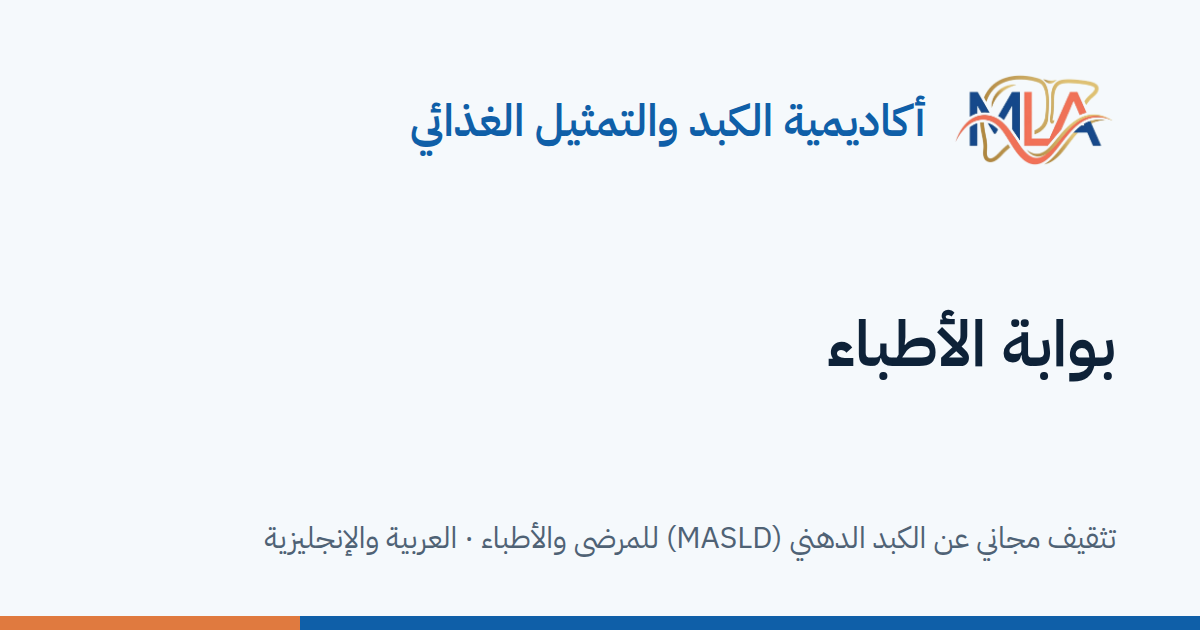
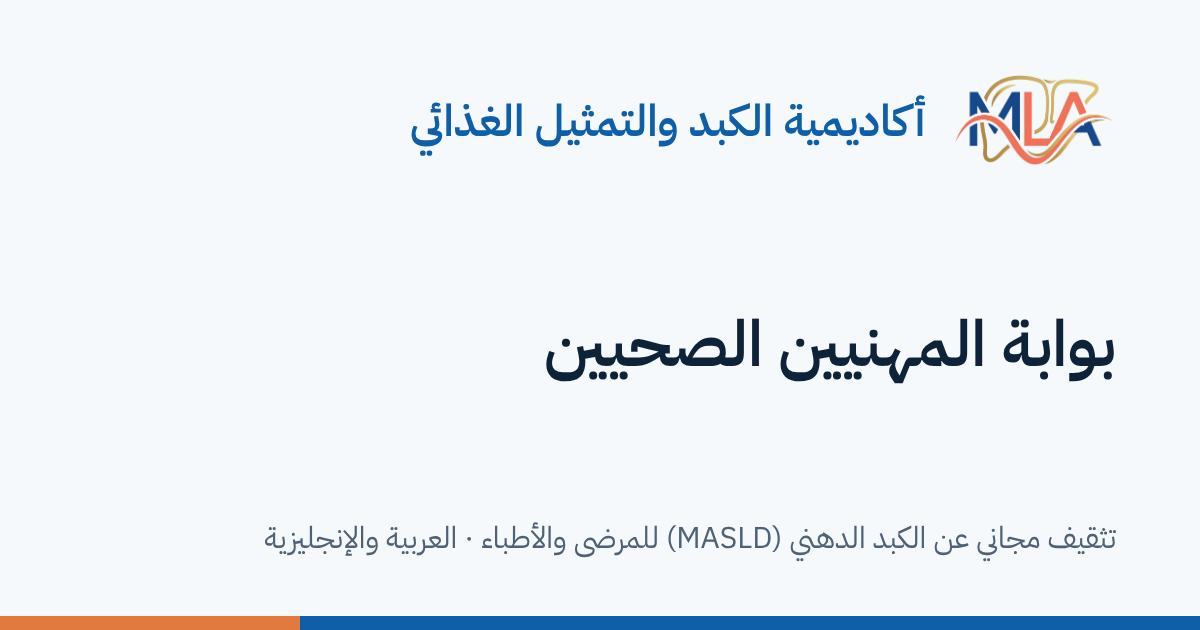
Share images: Professional Portal and reference library titles
- make_share_images.js: new titles; load fonts from a plain file, because site pages
  now carry a CSP that blocked the template's inline styles
- regenerated only the two affected pages' images (English and Arabic)

Claude-Session: https://claude.ai/code/session_01RSZiELUWvC8Yn8XCVCfamJ

diff --git a/scripts/make_share_images.js b/scripts/make_share_images.js
@@ -19,8 +19,8 @@ const PAGES = {
   patients: ['Patient Portal', 'بوابة المرضى'],
   learn: ['Questions and answers about fatty liver', 'أسئلة وأجوبة عن الكبد الدهني'],
   guides: ['Printable guides for patients', 'أدلة للمرضى قابلة للطباعة'],
-  academy: ['Physician Portal', 'بوابة الأطباء'],
-  ref: ['Reference library for doctors', 'المكتبة المرجعية للأطباء'],
+  academy: ['Professional Portal', 'بوابة المهنيين الصحيين'],
+  ref: ['Reference library for healthcare professionals', 'المكتبة المرجعية للعاملين في الصحة'],
   guidance: ['MASLD guidance for clinicians', 'إرشادات MASLD للأطباء'],
   calculators: ['MASLD calculators for clinicians', 'حاسبات MASLD للأطباء'],
   lectures: ['Lectures', 'المحاضرات'],
@@ -56,7 +56,9 @@ p{font-size:30px;color:#4F6275;line-height:1.4}
 (async () => {
   const b = await chromium.launch(process.env.CHROME ? { executablePath: process.env.CHROME } : {});
   const p = await b.newPage({ viewport: { width: 1200, height: 630 } });
-  await p.goto(BASE + 'legal.html');   /* same address as the fonts, so they load */
+  /* same address as the fonts, so they load; a plain file, because site pages carry a
+     Content Security Policy that would block this template's inline styles */
+  await p.goto(BASE + 'robots.txt');
   async function shot(lang, title, file) {
     await p.setContent(html(lang, title), { waitUntil: 'networkidle' });
     await p.evaluate(() => document.fonts.ready);
